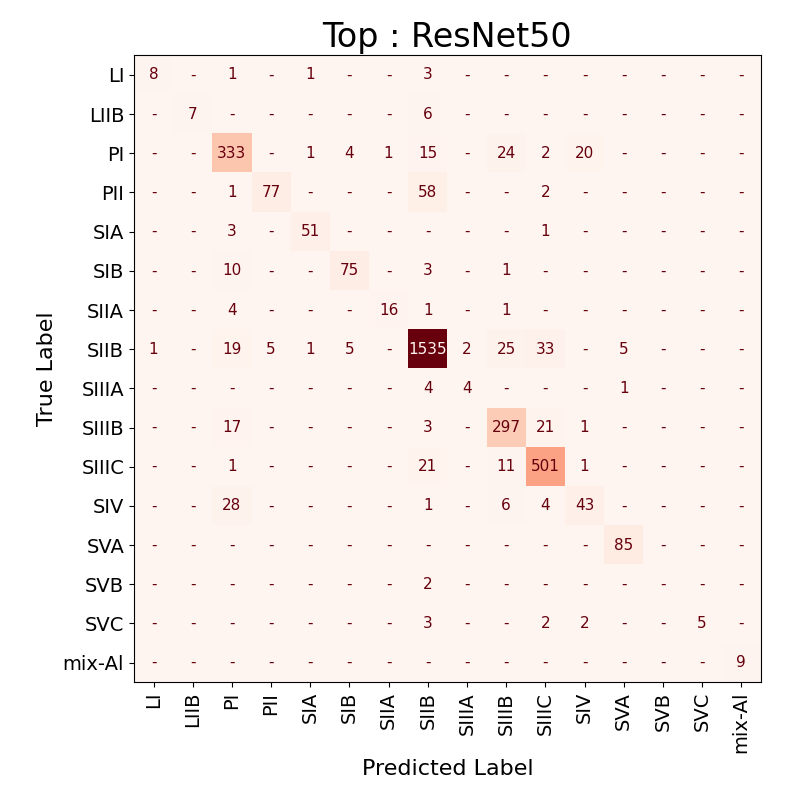
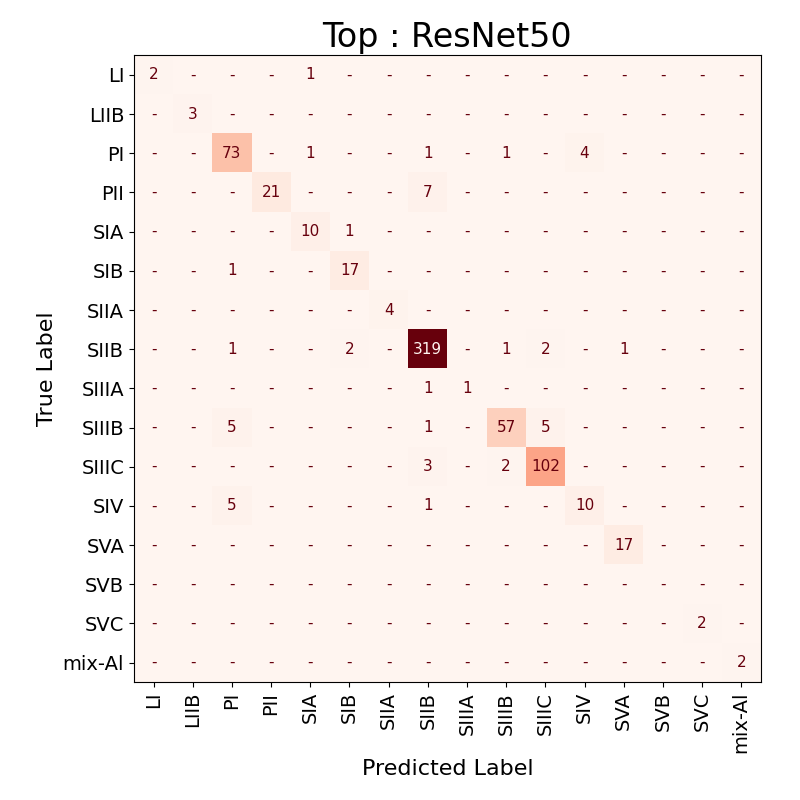
学習パラメータのunfreeze

diff --git a/train_x.py b/train_x.py
@@ -1,0 +1,189 @@
+import warnings
+warnings.simplefilter("ignore")
+
+import os
+import time
+import logging
+import numpy as np
+import pandas as pd
+import matplotlib.pyplot as plt
+import matplotlib.lines as mlines
+import torch
+import torch.nn as nn
+import torch.optim as optim
+from collections import OrderedDict
+from torchvision import transforms
+from torchvision.transforms import ToPILImage
+from torch.utils.data import DataLoader
+from torch.optim.lr_scheduler import StepLR, CosineAnnealingLR, OneCycleLR
+from sklearn.model_selection import StratifiedKFold, train_test_split
+from sklearn.metrics import f1_score, cohen_kappa_score
+from tqdm import tqdm
+from Utils.Image import OriginalDataset
+from Utils.seed import get_seed
+from Utils.args import get_args
+from Utils.eval_func import eval_history, confusion, summarize_result
+
+from Models.ResNet50 import *
+from Models.ViT import *
+
+for name in logging.root.manager.loggerDict:
+    if "huggingface" in name or "timm" in name:
+        logging.getLogger(name).setLevel(logging.ERROR)
+
+def train(args, output_dir):
+    def choose_model(args, classes):
+        n_classes = len(classes)
+        if args.view in ['Top', 'Side']:
+            model_dict = {
+                'ResNet50': ResNet50,
+                'ViT': ViT,
+            }
+        else:
+            model_dict = {
+                'ResNet50': ResNet50_F,
+            }
+        model_class = model_dict.get(args.model)
+        model = model_class(n_classes)
+        return model
+    def make_dataset(idx, imgs, labels):
+        selected_imgs = [imgs[i] for i in idx]
+        selected_labels = [labels[i] for i in idx]
+        return selected_imgs, selected_labels
+    def get_transform(train):
+        if train:
+            transform = transforms.Compose([
+                transforms.RandomResizedCrop(args.size, scale=(0.9, 1.0)),
+                transforms.ColorJitter(brightness=0.1, contrast=0.1, saturation=0.05, hue=0.02),
+                transforms.RandomAffine(degrees=0, translate=(0.05, 0.05), shear=(-5, 5)),
+                transforms.RandomErasing(p=0.1, scale=(0.005, 0.05), ratio=(0.3, 3.3)),
+                transforms.Normalize([0.5]*3, [0.5]*3)
+                ])
+        else:
+            transform = transforms.Compose([
+                transforms.Normalize([0.5]*3, [0.5]*3)
+                ])
+        return transform
+
+    get_seed(42)
+    device = torch.device('cuda:0' if torch.cuda.is_available() else 'cpu')
+
+    label_df = pd.read_csv('Data/Labels_Count.csv')
+    classes = tuple(label_df.sort_values('Encode')['Label'])
+    df = torch.load('Data/Dataset.pt', weights_only=False)
+    imgs, labels = df[args.view], df['Label']
+
+    labels_np = labels.numpy()
+    train_idx, test_idx = train_test_split(range(len(labels)), test_size=0.2, random_state=42, stratify=labels_np)
+    df_train, label_train = make_dataset(train_idx, imgs, labels)
+    df_test, label_test = make_dataset(test_idx, imgs, labels)
+    train_dataset = OriginalDataset(df_train, label_train, transform=get_transform(True))
+    test_dataset = OriginalDataset(df_test, label_test, transform=get_transform(False))
+    train_loader = DataLoader(train_dataset, batch_size=args.batch_size, shuffle=True)
+    test_loader = DataLoader(test_dataset, batch_size=args.batch_size, shuffle=False)
+
+    counts = label_df.sort_values('Encode')['Counts'].to_numpy()
+
+    class_weights = 1.0 / np.sqrt(np.log1p(counts))
+    class_weights = class_weights / class_weights.max()
+    class_weights = torch.tensor(class_weights, dtype=torch.float32).to(device)
+
+    log_path = os.path.join(output_dir, 'train.log')
+    logging.basicConfig(filename=log_path, level=logging.INFO, format='%(message)s', filemode='w')
+
+    fold_loss, fold_acc, fold_f1, fold_kappa = [], [], [], []
+    all_preds, all_labels = [], []
+    all_times = []
+
+    model = choose_model(args, classes)
+    model.to(device)
+    criterion = nn.CrossEntropyLoss(weight=class_weights, label_smoothing=0.1)
+    optimizer = optim.AdamW(model.parameters(), lr=args.lr, weight_decay=args.weight_decay)
+    scheduler = CosineAnnealingLR(optimizer, T_max=args.epochs, eta_min=1e-5)
+    history = np.zeros((0,5))
+    with tqdm(total=args.epochs, desc=f'{f"Epoch X":<10}', bar_format=args.format, ascii=args.ascii, leave=False) as qbar:
+        for epoch in range(1, args.epochs + 1):
+            train_loss = test_loss = 0.0
+            train_acc = test_acc = 0.0
+            n_train = n_test = 0
+            Preds, Labels = [], []
+            model.train()
+            for imgs, labels in tqdm(train_loader, desc=f'{"Train":<10}', bar_format=args.format, ascii=args.ascii, leave=False):
+                inputs = (imgs.to(device), )
+                labels = labels.to(device)
+                optimizer.zero_grad()
+                if args.model == 'MidNet':
+                    outputs, kd_loss = model(*inputs, kd=True)
+                    ce_loss = criterion(outputs, labels)
+                    loss = ce_loss + kd_loss
+                else:
+                    outputs = model(*inputs)
+                    loss = criterion(outputs, labels)
+                loss.backward()
+                optimizer.step()
+
+                train_loss += loss.item()
+                predicted = outputs.argmax(dim=1)
+                n_train += labels.size(0)
+                train_acc += (predicted == labels).sum().item()
+
+            model.eval()
+            with torch.no_grad():
+                for imgs, labels in tqdm(test_loader, desc=f'{"Test":<10}', bar_format=args.format, ascii=args.ascii, leave=False):
+                    inputs = (imgs.to(device), )
+                    labels = labels.to(device)
+                    start_time = time.time()
+                    if args.model == 'MidNet':
+                        outputs, kd_loss = model(*inputs, kd=True)
+                        end_time = time.time()
+                        ce_loss = criterion(outputs, labels)
+                        loss = ce_loss + kd_loss
+                    else:
+                        outputs = model(*inputs)
+                        end_time = time.time()
+                        loss = criterion(outputs, labels)
+                    test_loss += loss.item()
+                    predicted = outputs.argmax(dim=1)
+                    n_test += labels.size(0)
+                    test_acc += (predicted == labels).sum().item()
+                    diff_time = end_time - start_time
+                    all_times.append(diff_time)
+
+                    Preds.extend(predicted.cpu())
+                    Labels.extend(labels.cpu())
+
+            train_loss /= n_train
+            train_acc /= n_train
+            test_loss /= n_test
+            test_acc /= n_test
+
+            eval_preds = np.array(Preds)
+            eval_labels = np.array(Labels)
+            macro_f1 = f1_score(eval_labels, eval_preds, average='macro')
+            kappa = cohen_kappa_score(eval_labels, eval_preds)
+            item = np.array([epoch, train_loss, test_loss, train_acc, test_acc])
+            history = np.vstack((history, item))
+            logging.info(f"[{epoch:>2}/{args.epochs:>2}] (Train) Loss={train_loss:.4f} Acc={train_acc:.4f} (Test) Loss={test_loss:.4f} Acc={test_acc:.4f} F1={macro_f1:.4f} Kappa={kappa:.4f}")
+            scheduler.step()
+            qbar.set_postfix(OrderedDict([
+                ('Train', f'{train_loss:.4f}'),
+                ('Test', f'{test_loss:.4f}')
+            ]))
+            qbar.update()
+    fold_loss.append(test_loss)
+    fold_acc.append(test_acc)
+    fold_f1.append(macro_f1)
+    fold_kappa.append(kappa)
+    all_labels.extend(Labels)
+    all_preds.extend(Preds)
+
+    confusion(args, all_labels, all_preds, classes, output_dir)
+    summarize_result(args, fold_loss, fold_acc, fold_f1, fold_kappa, all_times)
+
+if __name__ == '__main__':
+    args = get_args()
+    output_dir = f'Output/{args.view}/{args.model}'
+    if not os.path.exists(output_dir):
+        os.makedirs(output_dir, exist_ok=True)
+    print(f'[{args.view:^10}:{args.model:^10}]')
+    train(args, output_dir)

diff --git a/Utils/args.py b/Utils/args.py
@@ -6,8 +6,8 @@ def get_args():
     parser.add_argument('--few_classes', default=['LI', 'LIIB', 'SIIIA', 'SVB', 'SVC', 'mix-Al'], type=str, nargs='+')
     parser.add_argument('--size', default=224, type=int)
     parser.add_argument('--splits',default=5,type=int)
-    parser.add_argument('--epochs',default=20,type=int)
-    parser.add_argument('--lr',default=1e-3,type=float)
+    parser.add_argument('--epochs',default=10,type=int)
+    parser.add_argument('--lr',default=1e-4,type=float)
     parser.add_argument('--weight_decay',default=1e-2,type=float)
     parser.add_argument('--batch_size',default=32,type=int)
     parser.add_argument('--view',default='Top',choices=['Top','Side','Fusion'],type = str)

diff --git a/Models/ResNet50.py b/Models/ResNet50.py
@@ -7,7 +7,7 @@ class ResNet50(nn.Module):
         super().__init__()
         self.model = timm.create_model('resnet50d', pretrained=True)
         for param in self.model.parameters():
-            param.requires_grad = False
+            param.requires_grad = True
         in_features = self.model.get_classifier().in_features
         self.model.fc = nn.Linear(in_features, n_classes)
 
